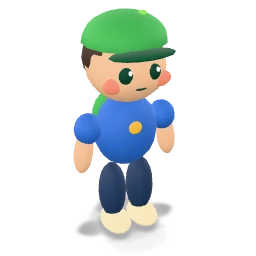
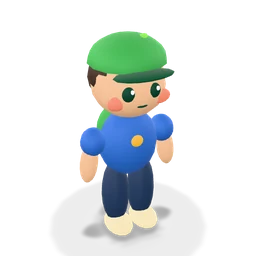
The trainer's loading still is re-rendered from the new model, and the roadmap records the wardrobe, clips and clean biomes

Changed region(s): [[0.2812, 0.0312, 0.6875, 0.9688], [0.2812, 0.875, 0.4062, 0.9375]]

diff --git a/ROADMAP.md b/ROADMAP.md
@@ -298,7 +298,17 @@ Gelo, 10-01: "i really dont like this artifical horizon, in the real pokemon go,
 | The horizon is where the world really ends: ground drawn out to a view distance, fading by real distance into the sky, which begins where that distance lands on screen. No painted hills, skyline or haze band | Play view (`horizon.tsx`, `camera-feel.ts`, `tile-map.tsx`); buildings, trees, labels and finds fade and cull by the same distance | `camera-feel.test.ts` "the real horizon": at the street camera the horizon lands 5–30 % down a phone, a laptop and a wide desktop; tilting up brings it down; fog is 0 before `FOG_START` and 1 at the view distance | Shipped. Close pitch 58° → 62° (max 64° → 68°) so the sky shows as in GO |
 | The close camera never breaks: no ground, walker, trees or dock dropping out while walking and turning at a steep pitch | Play view | Stress run (max tilt, walking and turning, 1 frame/s, pixel check for the dock and the walker): old build 7 of 20 frames broken, new build 0 of 20 on a 1780×880 desktop and 0 of 10 on a 390×844 phone. `camera-feel.test.ts`: the clip never reaches behind the eye at any pitch 40–68° on any screen (red with the guard removed), and its area is bounded | Shipped. **Not done:** tested with Chrome on this machine's RTX 2060 (headless, GPU compositing on); not yet on a physical phone or a low-end laptop's integrated GPU |
 
-### 2026-10-01 — things to do, SEEDS challenges nobody can cheat, group walks
+### 2026-10-01 — clean biome edges, accessories on the 3D figures, livelier trainer and pet
+
+Gelo, 10-01: "clean biome boundaries, animations 3d figures + accessories (from shop/blindbox/etc.) and pet".
+
+| Behavior | Surface | PASS iff | Status |
+|----------|---------|----------|--------|
+| Biomes read as clean areas: one tone per kind (two greenness steps), same-tone neighbours drawn as one shape with a same-colour seam stroke; only the sector you stand in is outlined | Play view (`biomeTone`, `KIND_ORDER`, `play-map.tsx`) | Screenshot: no patchwork of near-identical greens, no hairline seams; field view keeps per-sector colours | Shipped |
+| Accessories are worn on the 3D figures and move with them: 8 blind-box charms and 4 shop items on the trainer, 3 growth rewards and a bandana on the pet; one per slot | Map walker and pet; Buddy sheet → Wardrobe (`wear.ts`, `use-wear.ts`, `wardrobe.tsx`, `character-model.tsx`) | `wear.test.ts`: every catalogue item is built into its model and nothing else is; shop spends a balance, never twice, never sells a charm; one per slot. Screenshot: salakot, glasses, scarf on the trainer, bandana on the pet, nothing hidden flashing on load | Shipped |
+| The trainer looks around, blinks and cheers; every pet stage has idle / walk / sleep / happy picked by its pose; both celebrate a logged find | `build-eagle-glb.mjs`, `pet-eagle.tsx`, `character.tsx` | `wear.test.ts` clip names; connectivity audit: all five models one piece at every keyframe (the firefly is the one named `float_` exemption) | Shipped. **Not done:** checked in headless Chrome only |
+| The trainer's loading still matches the model | `agila-trainer-poster.webp` | Rendered from `agila-trainer.glb` at the map framing, accessories hidden, transparent | Shipped |
+
 
 Gelo, 10-01: "improve on the display of items on the map (things to do), also adding more objectives (doable by anyone) and a way for seeds to integrate challenges to students and that noone can cheat … research all the anticheat measures pokemon go has + make sure multiplayer works well or group walk". Research: `docs/research/anticheat.md`. Spec: `docs/spec/seeds-challenge.md`.
 
